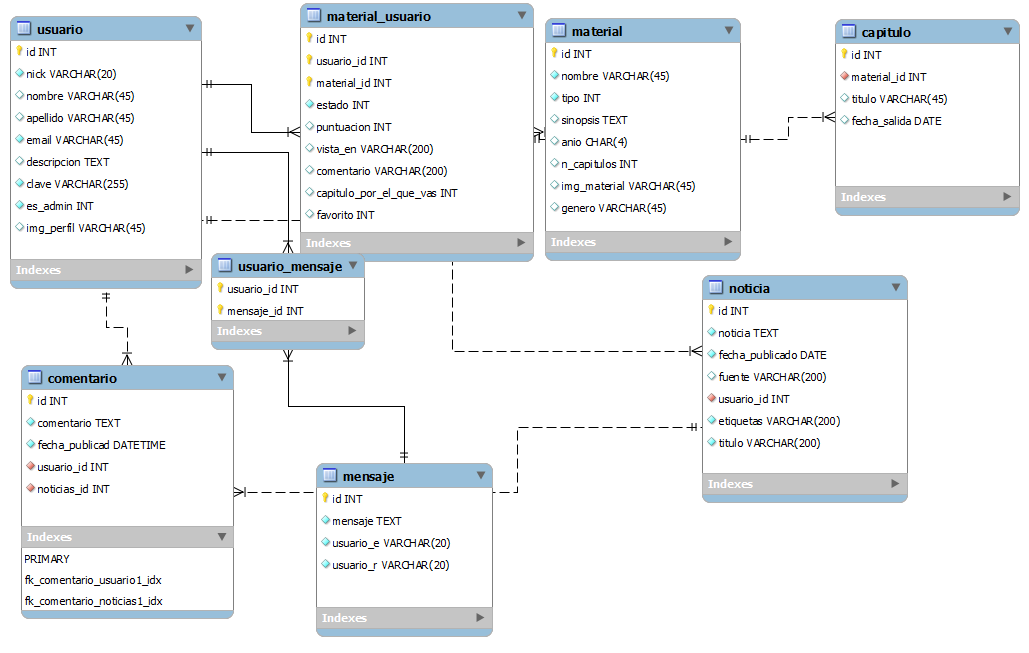
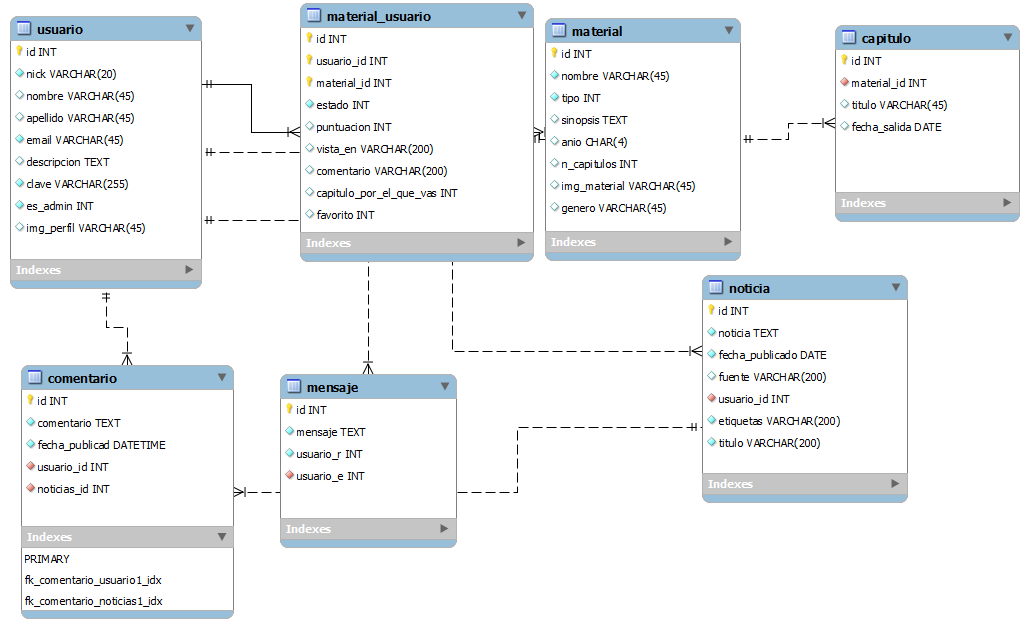
Mensajes privados y estructuración.
Cambios en la Base de Datos para los mensajes privados.
Algoritmo para los materiales favoritos de un usuario colocado en una función.
Muestra simple de los mensajes privados enviados y recibidos por un usuario

diff --git a/public/funciones.php b/public/funciones.php
@@ -22,7 +22,7 @@ require_once "../config.php";
 function registrarse($nick, $contraseña, $contraseña2, $email, $nombre, $apellido, $descripcion) {
 
     $ok = false;
-    if (CompruebaLongitud($nick, 30, 1) && CompruebaLongitud($nick, 20, 8) && 
+    if (comprueba_longitud($nick, 30, 1) && comprueba_longitud($nick, 20, 8) && 
             preg_match("/[A-Za-z0-9_.]+@[A-Za-z]+[.]+[A-Za-z]+/",$email) && 
             comprueba_nick_existente($nick) == false && $contraseña == $contraseña2) {
         $dbh = \ORM::getDb();
@@ -248,7 +248,7 @@ function actualiza_material($variabl, $estado, $puntuacion, $progreso, $vista_en
     $dbh = \ORM::getDb();
     $dbh->beginTransaction();
     if($puntuacion >= 0 && $puntuacion <= 10 && $progreso >= 0 && $progreso <= 30000 &&
-            CompruebaLongitud($vista_en, 100, -1) == true && CompruebaLongitud($vista_en, 500, -1) == true)
+            comprueba_longitud($vista_en, 100, -1) == true && comprueba_longitud($vista_en, 500, -1) == true)
     {
         try{
             $variabl->estado = $estado;
@@ -275,7 +275,7 @@ function agrega_material($variabl, $estado, $puntuacion, $progreso, $vista_en, $
     $dbh = \ORM::getDb();
     $dbh->beginTransaction();
     if($puntuacion >= 0 && $puntuacion <= 10 && $progreso >= 0 && $progreso <= 30000 &&
-            CompruebaLongitud($vista_en, 100, -1) == true && CompruebaLongitud($vista_en, 500, -1) == true)
+            comprueba_longitud($vista_en, 100, -1) == true && comprueba_longitud($vista_en, 500, -1) == true)
     {
         try{
             $variabl->estado = $estado;
@@ -318,9 +318,9 @@ function usuario_logeado($elNick) {
 function publicar_noticia($titulo, $noticia, $fuente, $tags) {
     $dbh = \ORM::getDb();
     $dbh->beginTransaction();
-    if (CompruebaLongitud($titulo, 200, 4) == true &&
-            CompruebaLongitud($noticia, 100000, 100) == true && CompruebaLongitud($tags, 200, 10) == true &&
-            CompruebaLongitud($fuente, 200, -1) == true) {
+    if (comprueba_longitud($titulo, 200, 4) == true &&
+            comprueba_longitud($noticia, 100000, 100) == true && comprueba_longitud($tags, 200, 10) == true &&
+            comprueba_longitud($fuente, 200, -1) == true) {
         try {
             $insertarNoticia = ORM::for_table('noticia')->create();
             $insertarNoticia->titulo = $titulo;
@@ -383,7 +383,7 @@ function buscar_noticia($busqueda, $filtrado) {
 function publica_comentario($comentario, $idNoticia) {
     $dbh = \ORM::getDb();
         $dbh->beginTransaction();
-        if(CompruebaLongitud($comentario,500,10) == true)
+        if(comprueba_longitud($comentario,500,10) == true)
         {
             try 
             {
@@ -410,11 +410,29 @@ function publica_comentario($comentario, $idNoticia) {
      return $ok;
 }
 
-function CompruebaLongitud($valor, $longitudMaxima, $longitudMinima) {
+function comprueba_longitud($valor, $longitudMaxima, $longitudMinima) {
     if (strlen($valor) > $longitudMaxima || strlen($valor) < $longitudMinima)
         return false;
     else
         return true;
+}
+
+function favoritos($idUsuario)
+{
+    $fav = ORM::for_table('material')->select_many('material.nombre','material.img_material','material.id')->
+                    join('material_usuario', array('material.id','=','material_usuario.material_id'))->
+                    where('material_usuario.usuario_id',$idUsuario)->
+                    where('material_usuario.favorito',1)->find_many();
+    return $fav;
+}
+
+function mensajes_privados($idUsuario)
+{
+    $mensaje = ORM::for_table('mensaje')->
+            where_raw('`usuario_e` = ? OR `usuario_r` = ?',array($idUsuario,$idUsuario))->
+            find_many();
+    return $mensaje;
+            
 }
 
 ?>

diff --git a/public/index.php b/public/index.php
@@ -305,10 +305,16 @@ $app->map('/datosusuario/:nicku/:modo', function($nicku, $modo) use ($app) {
                 echo "Ha ocurrido algún error al editar los datos";
             else
             {
-                $favs = ORM::for_table('material')->select_many('material.nombre','material.img_material','material.id')->
-                    join('material_usuario', array('material.id','=','material_usuario.material_id'))->
-                    where('material_usuario.usuario_id',$datosUsuario->id)->
-                    where('material_usuario.favorito',1)->find_many();
+                $favs = favoritos($datosUsuario->id);
+                
+                $mensajes = mensajes_privados($datosUsuario->id);
+                echo "<br/><br/><br/><br/><br/>";
+                foreach($mensajes as $mensaje)
+                {
+                    echo "<br/>El usuario ".$mensaje->usuario_e.
+                            " ha enviado el mensaje '".$mensaje->mensaje."' al usuario ".$mensaje->usuario_r;
+                }
+                
                 $app->render('datosusuario.html.twig', array(
                     'datos' => $datosUsuario,
                     'favs' => $favs,
